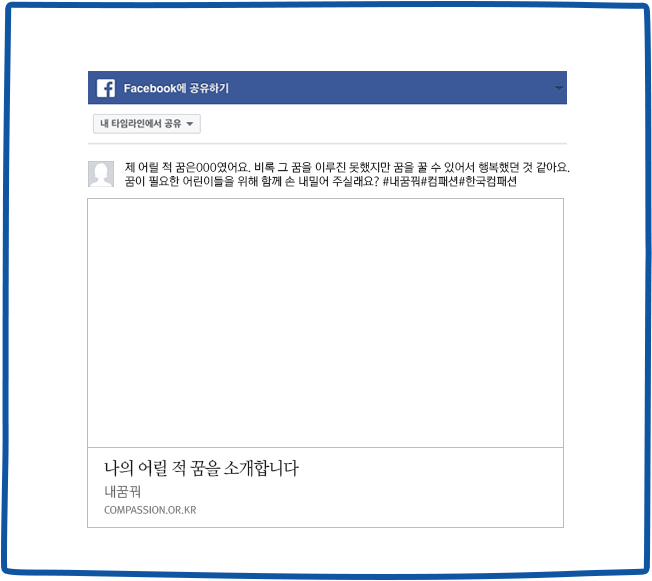
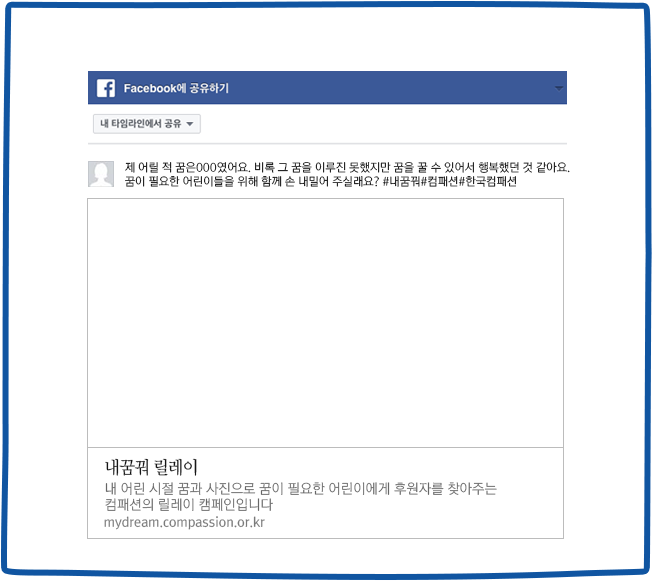
프리뷰 이미지 교체

Changed region(s): [[0.1534, 0.7745, 0.8589, 0.9294]]

diff --git a/MOBILE/popup_div.php b/MOBILE/popup_div.php
@@ -81,7 +81,7 @@
       <div class="inner_p_preview">
       	<!-- <div class="img preview" style="overflow: hidden;width: 400px;height: 200px;"></div> -->
       	<div class="img preview"></div>
-      	<img src="images/bg_preview.jpg" class="bg" />
+      	<img src="images/bg_m_preview.jpg" class="bg" />
       </div>
   </div>
   <!--END : 사진 미리보기 팝업-->
